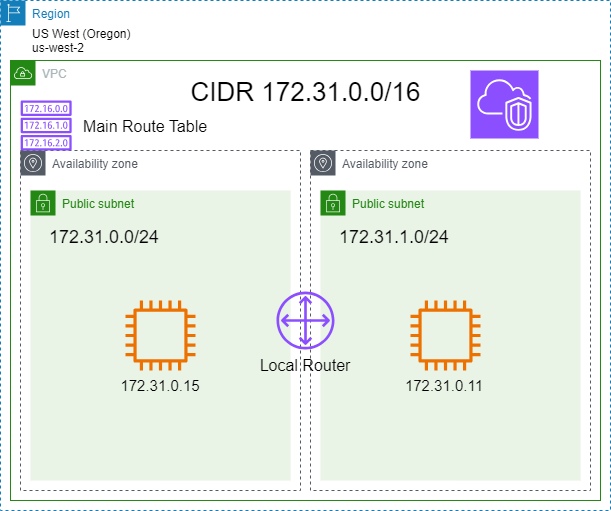
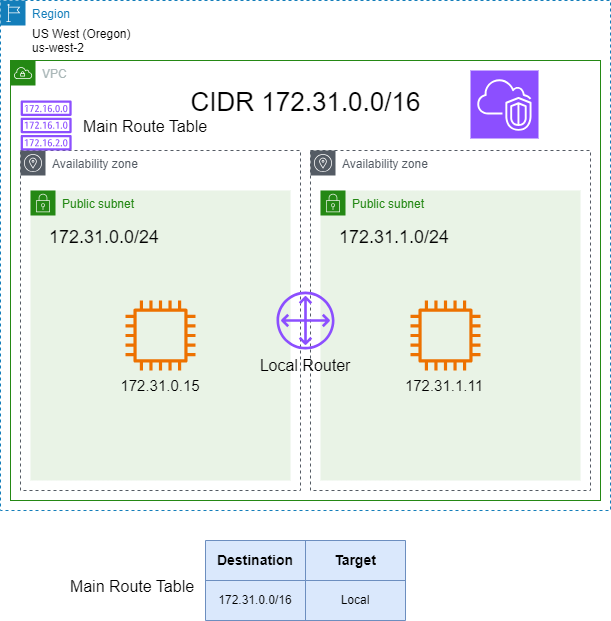
VPC update

diff --git a/_posts/2023-09-25-VPC.md b/_posts/2023-09-25-VPC.md
@@ -52,4 +52,36 @@ Services NOT insite a VPC:
 
 ## Subnets, Route Tables and Internet Gateway
 
+- Subnets belong only to a single AZ
+- EC2 instances are attached to a single subnet, therefore attached to a single AZ
+- Subnets are attached to a Route table
+  - A subnet can be attached only to a single Route table
+  - However, a Route table can have multiple subnets attached to it
+
+The diagram shows 2 EC2 instances to different AZs. Single both Subnets are attached to the single Route table the communication local communication is possible.
+
 ![]({{ site.baseurl }}/images/2023/09-25-VPC/04-VPC-diagram.png)
+
+To access the Internet, an Internet Gateway is required.
+
+![]({{ site.baseurl }}/images/2023/09-25-VPC/05-VPC-diagram.png)
+
+# Public Subnet vs Private Subnet
+
+Additionally to the Main Route table, a Custome Route table can bs created.
+Since the Custom Route table does not have a 0.0.0.0/0 route to the Internet Gateway (IGW), the EC2 instance with IP address 172.31.1.11 does not have Internet access.
+
+If the subnet has a 0.0.0.0/0 to the IGW it is a Public Subnet.
+Otherwise, a subnet with no internet access is called in AWS terms Private subnet.
+
+![]({{ site.baseurl }}/images/2023/09-25-VPC/06-VPC-diagram.png)
+
+# Addressing
+
+5 IP addresses cannot be used per subnet.
+
+- 172.31.0.0/24 - Network address
+- 172.31.0.1/24 - Reserved by AWS for the VPC Router
+- 172.31.0.2/24 - Reserved by AWS for mapping to Amazon-provided DNS
+- 172.31.0.3/24 - Reserve dby AWS for future use
+- 172.31.0.255/24 - Broadcast address. AWS does not support broadcast in a VPC. This address cannot be used.
